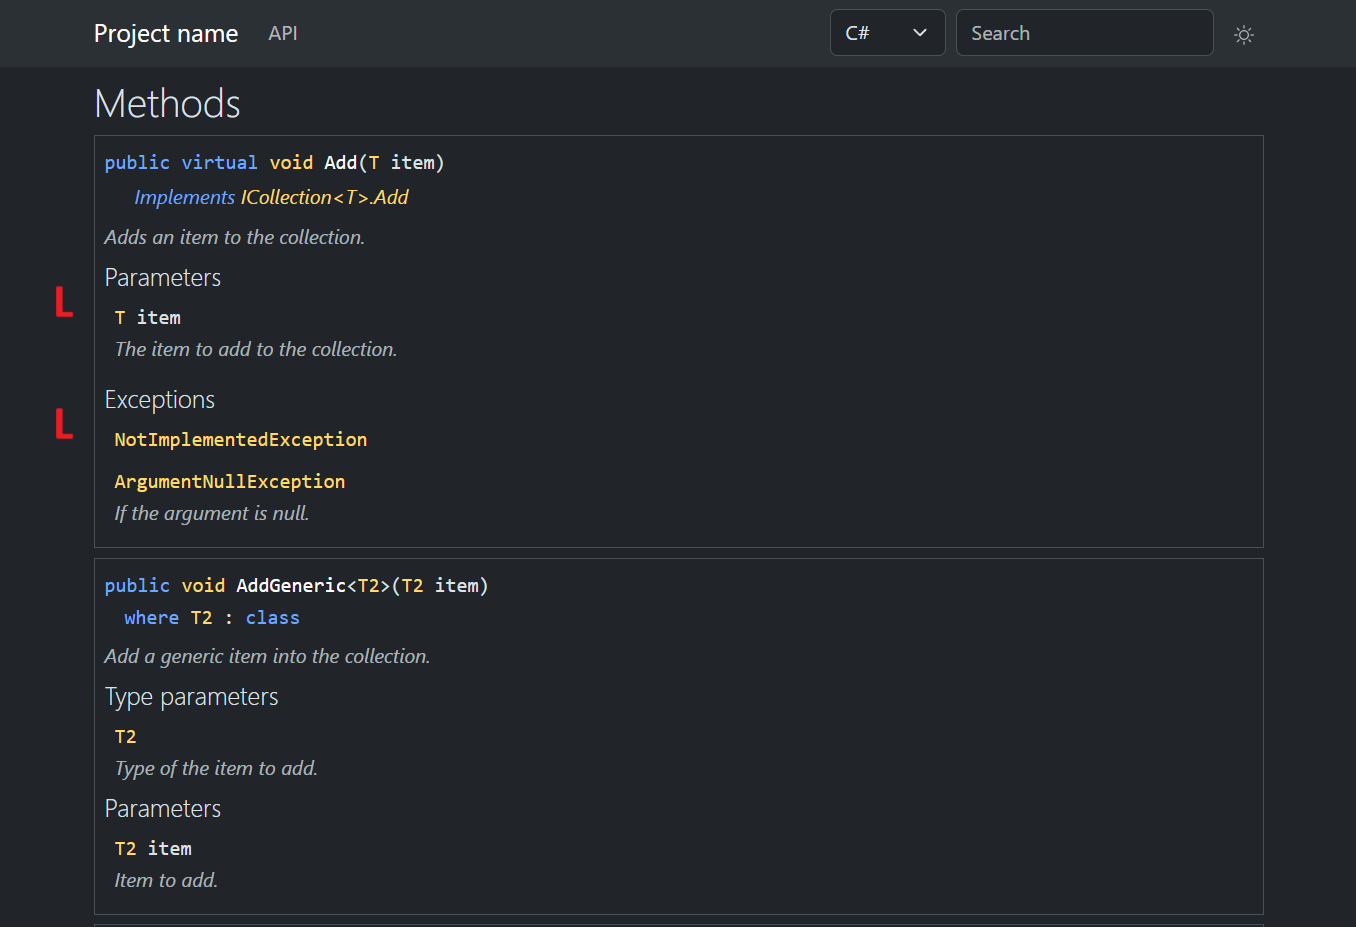
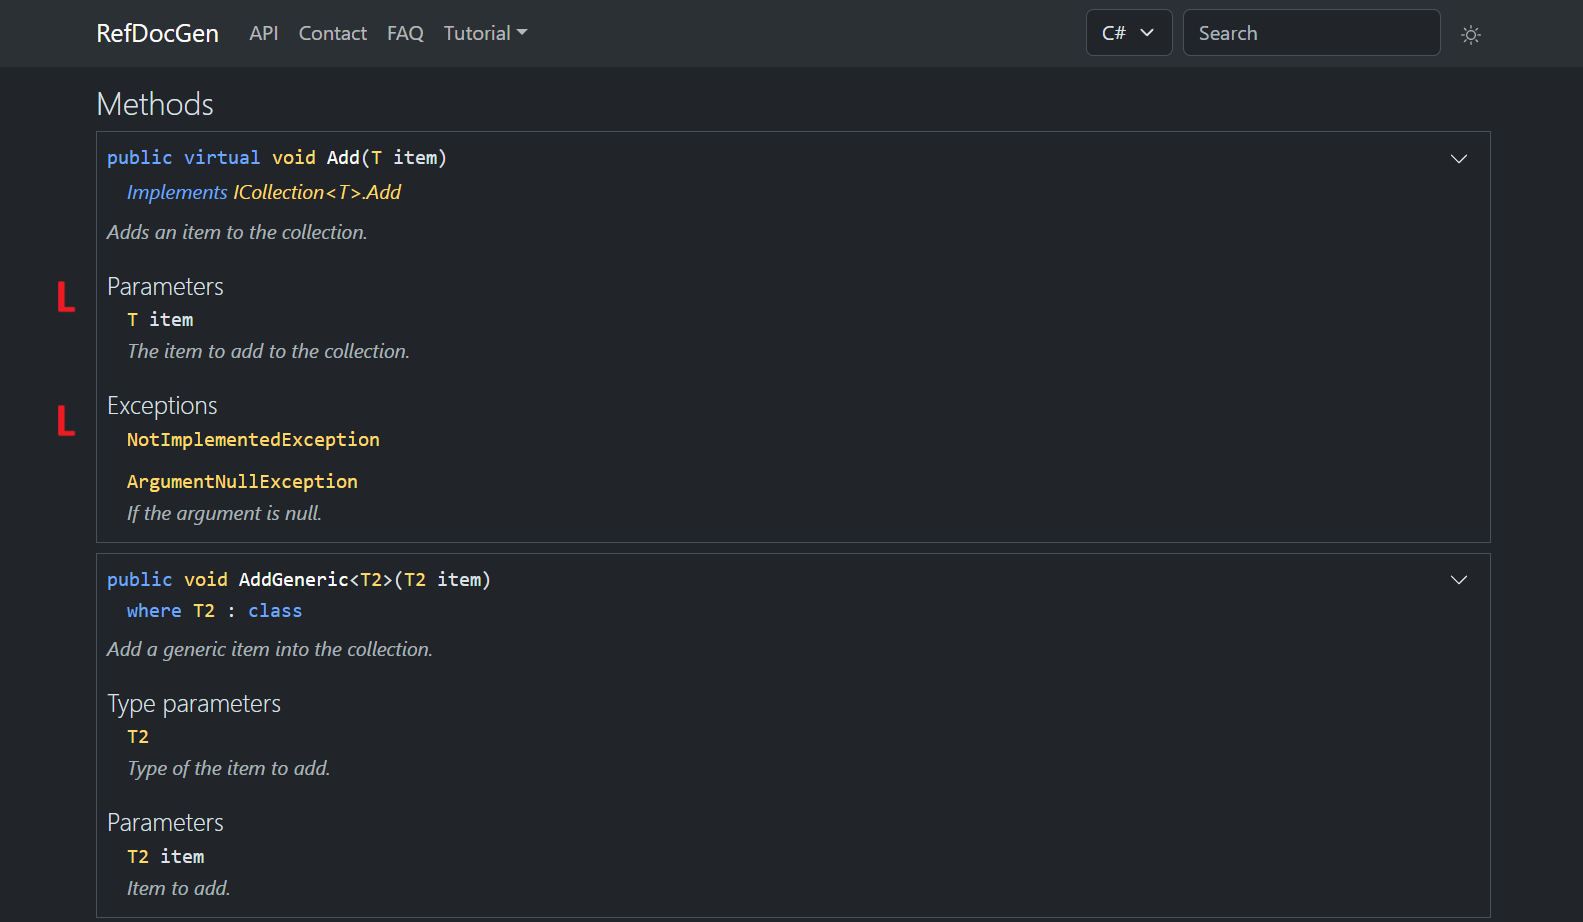
user docs - images

diff --git a/chap04.tex b/chap04.tex
@@ -1464,7 +1464,7 @@ In both cases, the API homepage remains accessible via the \textit{API} link in 
 The API homepage shows the project name (A), a list of assemblies (B), namespaces (C), and the types contained within them (D), along with their \textit{summary} documentation (E), as illustrated in Figure~\ref{fig:refdocgen-api-homepage}.
 Assembly, type, and namespace names are clickable and redirect the user to the corresponding page.
 Then, there is a dedicated page for each assembly, which looks almost identical to the API homepage, as displayed in Figure~\ref{fig:refdocgen-assembly-page}, with the only difference being that it shows only the types contained in the given assembly.
-Additionally, there is a separate page for each namespace, as shown in Figure~\ref{fig:refdocgen-ns-page}, which displays the contained types (C) with their documentation (D) once again.
+Additionally, there is a separate page for each namespace, as shown in Figure~\ref{fig:refdocgen-ns-page}, which displays the contained types (D) with their documentation (E) once again.
 
 \begin{figure}[H]
 \centering
@@ -1490,8 +1490,8 @@ Additionally, there is a separate page for each namespace, as shown in Figure~\r
 \subsubsection{Type page}
 
 Similarly to assemblies and namespaces, each type is represented by a dedicated page, as illustrated in Figure~\ref{fig:refdocgen-type-page}.
-This page first shows the type signature using C\# syntax (E).
-Below it, there is a section showing the containing assembly, namespace, base type, and a list of implemented interfaces (F); and then, the \textit{summary} documentation is displayed (G).
+This page first shows the type signature using C\# syntax (F).
+Below it, there is a section showing the containing assembly, namespace, base type, and a list of implemented interfaces (G); and then, the \textit{summary} documentation is displayed (E).
 Additionally, there are the following sections (H), while each section is displayed only if it is non-empty: 
 
 \begin{itemize}
@@ -1504,8 +1504,8 @@ Additionally, there are the following sections (H), while each section is displa
 \end{itemize}
 
 Below these sections, a list of members is displayed along with their documentation, as shown in Figures~\ref{fig:refdocgen-type-members1} and~\ref{fig:refdocgen-type-members2}.
-For each member, its signature (I) as well as its \textit{summary} documentation (K) is shown.
-Furthermore, if the member provides an interface member implementation, this is indicated just below the signature (J).
+For each member, its signature (I) as well as its \textit{summary} documentation (J) is shown.
+Furthermore, if the member provides an interface member implementation, this is indicated just below the signature (K).
 Similarly, if the member overrides another member or is inherited from a base type, this information is displayed in the same way.
 
 Then, below the \textit{summary} documentation, there are multiple sections (L) further describing the member.
@@ -1544,9 +1544,9 @@ In addition, these sections may also be present:
 The member, parameter, return types, etc., are clickable in most cases.
 Specifically, if the referenced type is found within the generated documentation or in the official .NET documentation, a link is created; otherwise, the fully qualified type name is displayed.
 In case of a generic type, each type parameter is represented by a separate link, as displayed in Figure~\ref{fig:refdocgen-cross-refs} (M).
-Furthermore, links inside the documentation comments (i.e., the \texttt{<see cref="...">} tags) result in clickable links (N).
+Furthermore, links inside the documentation comments (i.e., the \texttt{<see cref="...">} tags) result in clickable links (N1).
 Additionally, all standard inner XML tags inside the documentation comments are supported.
-In Figure~\ref{fig:refdocgen-inner-xml-rendered}, we can see the rendered inline code (O), code block (P), bullet (Q), and numbered (R) lists, as well as a table (S).
+In Figure~\ref{fig:refdocgen-inner-xml-rendered}, we can see the rendered inline code (N2), code block (N3), bullet (N4), and numbered (N5) lists, as well as a table (N6).
 
 \begin{figure}[H]
 \centering
@@ -1564,14 +1564,16 @@ In Figure~\ref{fig:refdocgen-inner-xml-rendered}, we can see the rendered inline
 
 \subsubsection{Menu}
 
-The top menu contains links and dropdowns, as shown in Figure~\ref{fig:refdocgen-menu-ui} (T).
+The top menu contains links and dropdowns, as shown in Figure~\ref{fig:refdocgen-menu-ui} (O).
 The \textit{API} link is always present and navigates us to the API homepage.
 Then, the following links represent static pages placed directly in the static pages directory, while the folders represent subfolders of the static pages folder, each sorted alphabetically.
 
-Next, it is possible to select the language in which the type and member signatures are displayed, using the language selector (U).
+Next, it is possible to select the language in which the type and member signatures are displayed, using the language selector (P).
 Currently, only C\# is supported; however, in the future, other languages may also be added.
-Next, we can navigate to the search page by clicking the input field (V).
-Finally, using the button (W), it is possible to toggle the documentation theme (light or dark), as shown in Figures~\ref{fig:refdocgen-dark-mode} and~\ref{fig:refdocgen-light-mode}.
+Next, we can navigate to the search page by clicking the input field (Q).
+Using the button (R), it is possible to toggle the documentation theme (light or dark), as shown in Figures~\ref{fig:refdocgen-dark-mode} and~\ref{fig:refdocgen-light-mode}.
+Finally, if the documentation is versioned, a dropdown with all available page versions is displayed (S).
+Using it, it is possible to switch to another version.
 
 \begin{figure}[H]
 \centering
@@ -1597,9 +1599,9 @@ Finally, using the button (W), it is possible to toggle the documentation theme 
 \subsubsection{Search page}
 
 The search page is shown in Figure~\ref{fig:refdocgen-search-page}.
-As we type in the search box (X), the search is run and the results are displayed below.
+As we type in the search box (T), the search is run and the results are displayed below.
 The search is performed within assembly, namespace, type, and member names.
-Each search result contains a link to its page (Y) and a \textit{summary} documentation (Z), if provided.
+Each search result contains a link to its page (U) and a \textit{summary} documentation (E), if provided.
 
 \subsubsection{Responsiveness}
 The UI is fully responsive, as displayed in Figures~\ref{fig:refdocgen-ui-desktop} and~\ref{fig:refdocgen-ui-mobile}.
@@ -1631,7 +1633,7 @@ The UI is fully responsive, as displayed in Figures~\ref{fig:refdocgen-ui-deskto
 Generally, most of the type, member, and parameter modifiers in C\# are recognized by \textit{RefDocGen}.
 However, selected modifiers are not supported and thus do not appear in the generated documentation, but these are typically implementation details that do not affect the API.
 Specifically, the following modifiers are not supported:
-\texttt{extern}, \texttt{file}, \texttt{managed}, \texttt{partial}, \texttt{record}, \texttt{scoped}, \texttt{unmanaged}, \texttt{unsafe}, and \texttt{volatile}.
+\texttt{extern}, \texttt{file}, \texttt{managed}, \texttt{new}, \texttt{partial}, \texttt{record}, \texttt{scoped}, \texttt{unmanaged}, \texttt{unsafe}, and \texttt{volatile}.
 Likewise, the following type parameter constraints are not currently supported:
 \texttt{notnull}, \texttt{unmanaged}, \texttt{default}, and \texttt{allows ref struct}.
 
@@ -1738,49 +1740,49 @@ When browsing the documentation, it is possible to switch between the versions, 
 \begin{figure}[H]
 \centering
 \includegraphics[width=1\linewidth]{img/newtonsoft-api.png}
-\caption{Newtonsoft.Json documentation -- API homepage}
+\caption{\textit{Newtonsoft.JSON} documentation -- API homepage}
 \label{fig:eval-newtonsoft-home}
 \end{figure}
 
 \begin{figure}[H]
 \centering
 \includegraphics[width=1\linewidth]{img/newtonsoft-class.png}
-\caption{Newtonsoft.Json documentation -- type page}
+\caption{\textit{Newtonsoft.JSON} documentation -- type page}
 \label{fig:eval-newtonsoft-type}
 \end{figure}
 
 \begin{figure}[H]
 \centering
 \includegraphics[width=1\linewidth]{img/refdocgen-demo-yaml1.png}
-\caption{YamlDotNet documentation -- API homepage}
+\caption{\textit{YamlDotNet} documentation -- API homepage}
 \label{fig:eval-yaml-home}
 \end{figure}
 
 \begin{figure}[H]
 \centering
 \includegraphics[width=1\linewidth]{img/refdocgen-demo-yaml2.png}
-\caption{YamlDotNet documentation -- type page}
+\caption{\textit{YamlDotNet} documentation -- type page}
 \label{fig:eval-yaml-type}
 \end{figure}
 
 \begin{figure}[H]
 \centering
 \includegraphics[width=1\linewidth]{img/refdocgen-demo-serilog1.png}
-\caption{Serilog documentation -- API homepage}
+\caption{\textit{Serilog} documentation -- API homepage}
 \label{fig:eval-serilog-home}
 \end{figure}
 
 \begin{figure}[H]
 \centering
 \includegraphics[width=1\linewidth]{img/refdocgen-demo-serilog2.png}
-\caption{Serilog documentation -- type page}
+\caption{\textit{Serilog} documentation -- type page}
 \label{fig:eval-serilog-type}
 \end{figure}
 
 \section*{Evaluation summary}
-No errors were encountered while creating the reference documentations, following the guides described in Sections~\ref{sec:evaluation-example-library}, \ref{sec:evaluation-refdocgen}, and \ref{sec:evaluation-third-party}.
-The program was tested on both \textit{Windows} and \textit{Linux} operating systems.
-Additionally, the UI was tested in \textit{Chrome}, \textit{Mozilla Firefox}, and \textit{Microsoft Edge} browsers.
+No errors were encountered while creating the reference documentations, following the guides in Sections~\ref{sec:evaluation-example-library}, \ref{sec:evaluation-refdocgen}, and \ref{sec:evaluation-third-party}.
+The program was tested on both Windows 11 and Linux (Ubuntu 22.04) operating systems.
+Additionally, the UI was tested in the following browsers: Chrome (version 138.0), Mozilla Firefox (version 140.0), and Microsoft Edge (version 138.0).
 All three created documentations are also contained in the following attachment folders:
 
 \begin{itemize}
